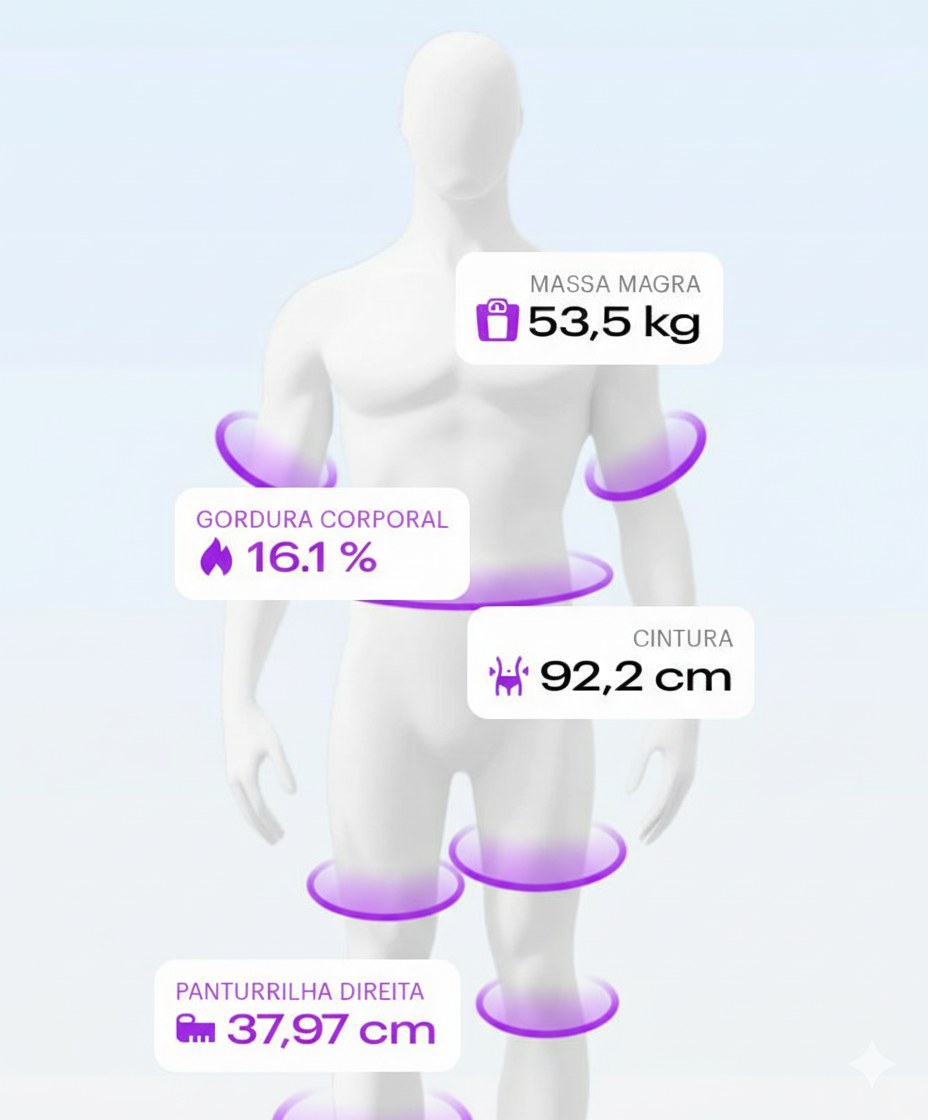
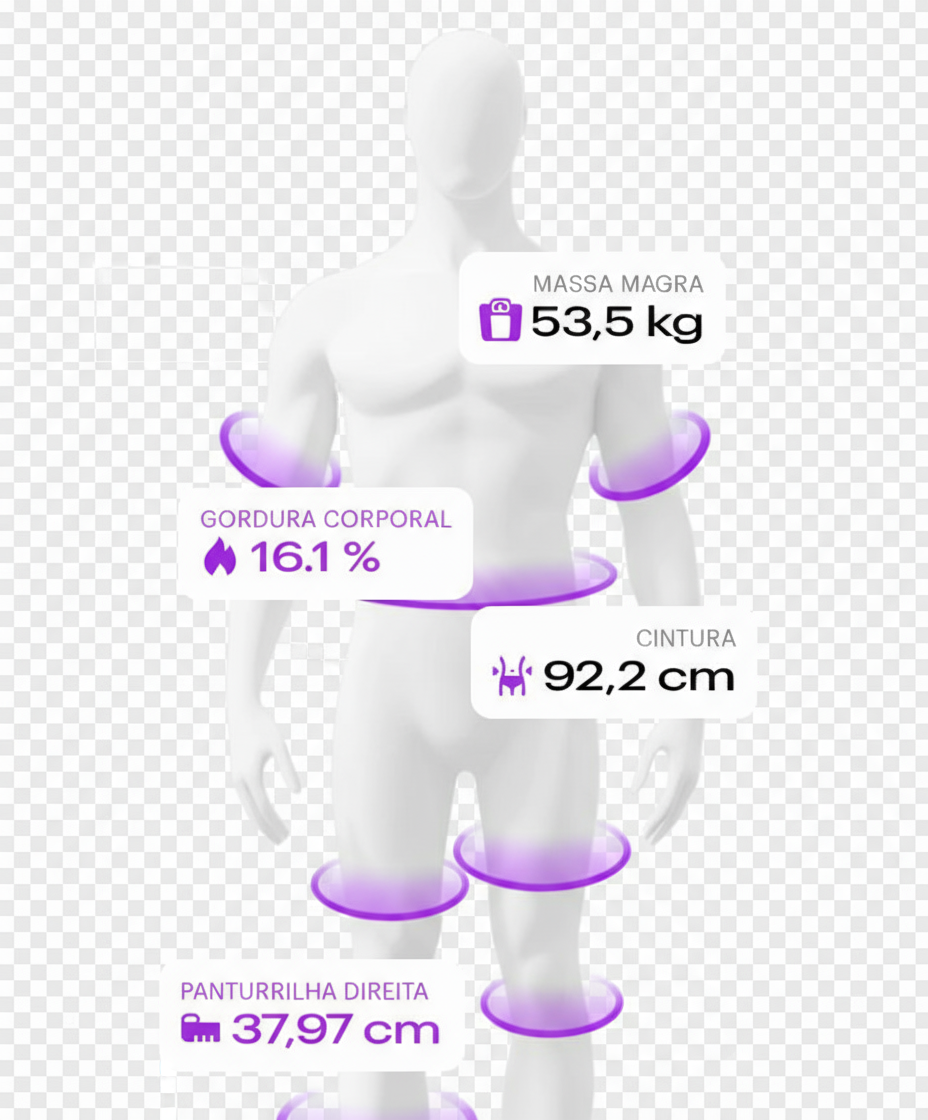
Refactor body scan images
Adapt body scan images to be background-free and properly fitted.

diff --git a/src/pages/BodyScanHowItWorks.tsx b/src/pages/BodyScanHowItWorks.tsx
@@ -33,7 +33,7 @@ export default function BodyScanHowItWorks() {
           </div>
 
           {/* Imagem Ilustrativa */}
-          <div className="relative w-full h-96 rounded-2xl overflow-hidden shadow-xl bg-gradient-to-b from-blue-50 to-purple-50">
+          <div className="relative w-full h-96 rounded-2xl overflow-hidden flex items-center justify-center">
             <img 
               src={bodyScanHowItWorks} 
               alt="Como funciona o escaneamento" 

diff --git a/src/pages/BodyScanPrepare.tsx b/src/pages/BodyScanPrepare.tsx
@@ -62,7 +62,7 @@ export default function BodyScanPrepare() {
           </div>
 
           {/* Imagem de exemplo */}
-          <div className="relative w-full h-80 rounded-2xl overflow-hidden shadow-xl bg-gradient-to-b from-blue-50 to-purple-50">
+          <div className="relative w-full h-80 rounded-2xl overflow-hidden flex items-center justify-center">
             <img 
               src={bodyScanProcess} 
               alt="Exemplo de preparação" 
